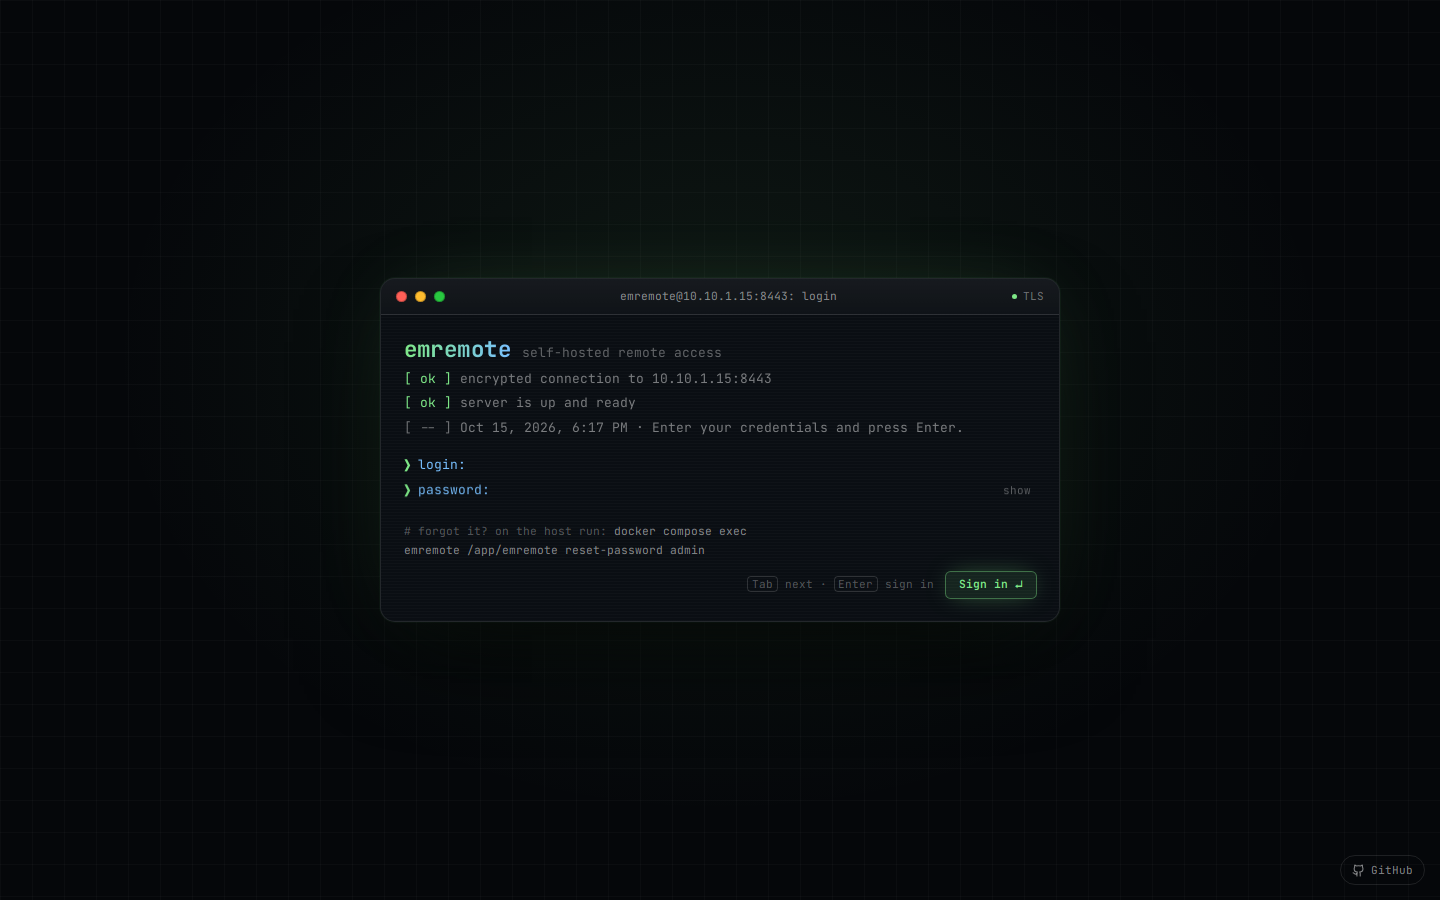
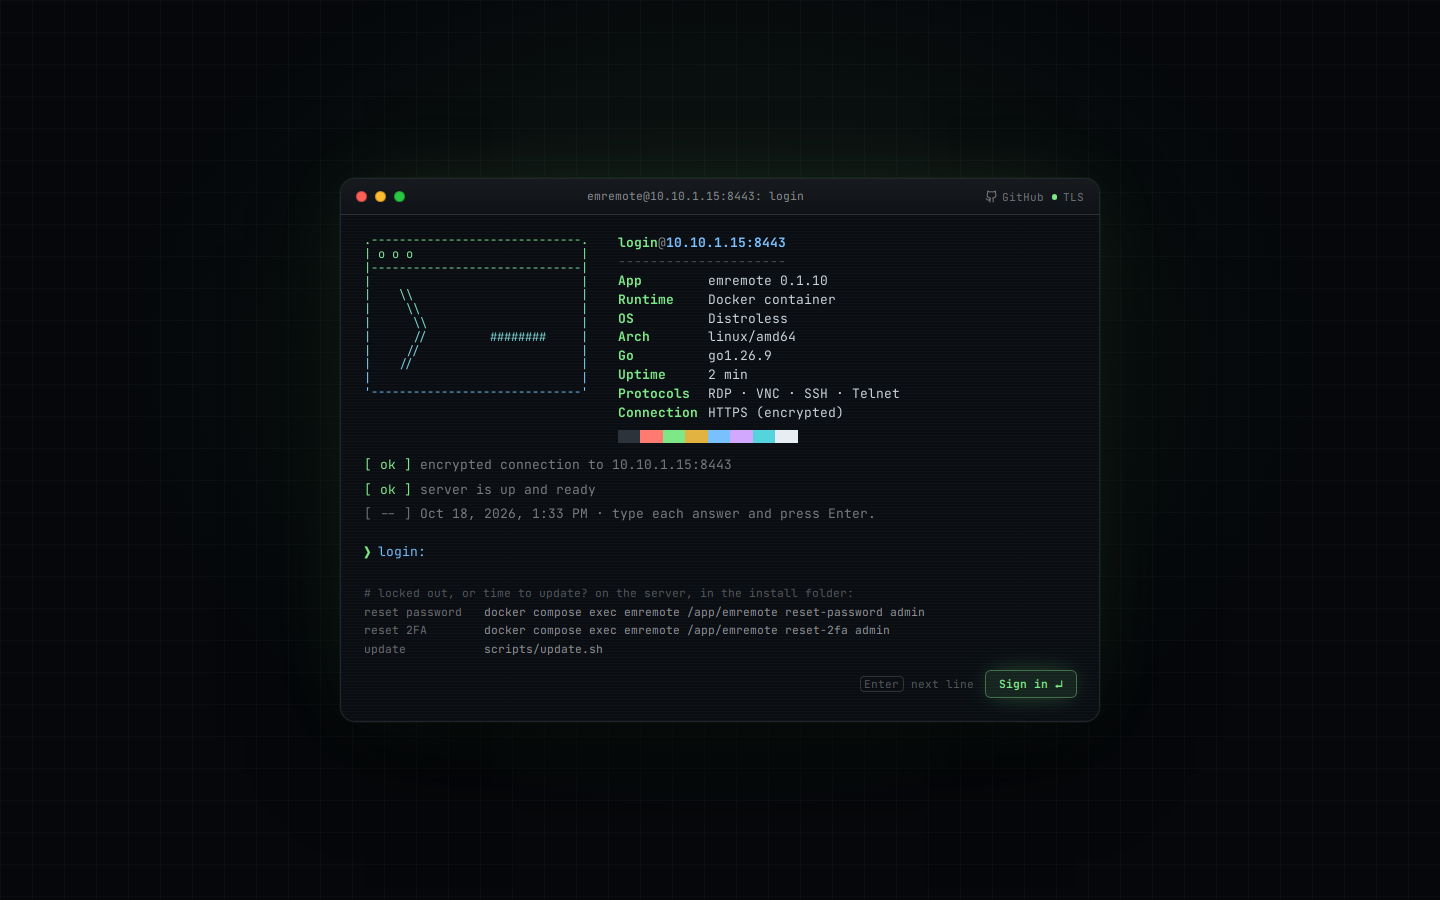
README: refreshed screenshots (sign-in, quick view, terminal themes) in a clearer order

diff --git a/README.md b/README.md
@@ -10,11 +10,11 @@ Open RDP, VNC, SSH and Telnet sessions in a browser tab, with no agent installed
 
 | | |
 |---|---|
-| ![Overview](docs/images/overview.png)<br>**Overview**: reachability, live sessions and recent activity | ![Devices](docs/images/devices.png)<br>**Devices**: groups, tags, search and one-click connect |
-| ![Device page](docs/images/device.png)<br>**Switches and routers**: vendor, firmware, model and serial read over SSH | ![Workspace](docs/images/workspace.png)<br>**Workspace**: sessions as tabs, one to four panes |
-| ![Statistics](docs/images/statistics.png)<br>**Statistics**: usage by day and hour, fleet and security | ![Activity log](docs/images/activity.png)<br>**Activity log**: every sign-in, session and file transfer |
-| ![Switch health](docs/images/switch-system.png)<br>**Switch health**: CPU, memory, firmware and uptime | ![Terminal themes](docs/images/terminal-themes.png)<br>**Terminal themes** with a live preview |
-| ![Search](docs/images/search.png)<br>**Ctrl/⌘ K**: find devices and run quick actions | ![Sign-in](docs/images/login.png)<br>**Sign-in** as a terminal |
+| ![Sign-in](docs/images/login.png)<br>**Sign-in** as a terminal: type each line, answer "remember me" | ![Overview](docs/images/overview.png)<br>**Overview**: reachability, live sessions and recent activity |
+| ![Devices](docs/images/devices.png)<br>**Devices**: groups, tags, search and one-click connect | ![Switches and routers](docs/images/device.png)<br>**Switches and routers**: vendor, firmware, model and serial read over SSH |
+| ![Quick view](docs/images/quick-view.png)<br>**Quick view**: a session in a window over the page you are on | ![Workspace](docs/images/workspace.png)<br>**Workspace**: sessions as tabs, one to four panes |
+| ![Switch health](docs/images/switch-system.png)<br>**Switch health**: CPU, memory, firmware and uptime | ![Statistics](docs/images/statistics.png)<br>**Statistics**: usage by day and hour, fleet and security |
+| ![Activity log](docs/images/activity.png)<br>**Activity log**: every sign-in, session and file transfer | ![Terminal themes](docs/images/terminal-themes.png)<br>**Terminal themes** with a live preview |
 
 ## Features
 
